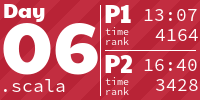
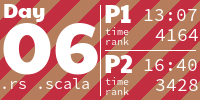
Day 6 2023

diff --git a/src/y2023/day6.rs b/src/y2023/day6.rs
@@ -1,0 +1,97 @@
+use std::io::{self, BufRead};
+
+use nom::{
+    bytes::complete::tag,
+    character::complete::{digit1, newline, space1},
+    multi::separated_list1,
+    sequence::{preceded, separated_pair, tuple},
+    IResult, Parser,
+};
+
+use crate::aoc::day::{DayParser, DaySolution};
+
+pub const TITLE: &str = "Wait For It";
+
+pub struct Solution {
+    time: Vec<String>,
+    distance: Vec<String>,
+}
+
+impl DayParser for Solution {
+    fn with_input(input: &mut dyn BufRead) -> Self {
+        let input = io::read_to_string(input).unwrap();
+        let (_, (time, distance)) = parse(input.as_str()).unwrap();
+
+        Self { time, distance }
+    }
+}
+
+fn parse(input: &str) -> IResult<&str, (Vec<String>, Vec<String>)> {
+    separated_pair(
+        preceded(tuple((tag("Time:"), space1)), numbers),
+        newline,
+        preceded(tuple((tag("Distance:"), space1)), numbers),
+    )(input)
+}
+
+fn numbers(input: &str) -> IResult<&str, Vec<String>> {
+    separated_list1(space1, digit1.map(|num: &str| num.to_string()))(input)
+}
+
+impl DaySolution for Solution {
+    fn part1(&self) -> String {
+        self.time
+            .iter()
+            .zip(self.distance.iter())
+            .map(|(time, distance)| count_wins(time, distance))
+            .product::<u64>()
+            .to_string()
+    }
+
+    fn part2(&self) -> String {
+        let time = self.time.join("");
+        let distance = self.distance.join("");
+        count_wins(&time, &distance).to_string()
+    }
+}
+
+fn count_wins(time: &str, distance: &str) -> u64 {
+    let time = time.parse::<u64>().unwrap();
+    let distance = distance.parse::<u64>().unwrap();
+
+    (1..=time / 2)
+        .filter(|push_time| push_time * (time - push_time) > distance)
+        .count() as u64
+        * 2
+        - ((time - 1) % 2)
+}
+
+#[cfg(test)]
+mod tests {
+    use super::*;
+    use crate::input;
+
+    #[test]
+    fn test_part1_example() {
+        let solution = Solution::with_input(input!(example));
+        assert_eq!(solution.part1(), "288");
+    }
+
+    #[test]
+    fn test_part1_input() {
+        let solution = Solution::with_input(input!(input));
+        assert_eq!(solution.part1(), "1159152");
+    }
+
+    #[test]
+    fn test_part2_example() {
+        let solution = Solution::with_input(input!(example));
+        assert_eq!(solution.part2(), "71503");
+    }
+
+    #[test]
+    fn test_part2_input() {
+        let solution = Solution::with_input(input!(input));
+        assert_eq!(solution.part2(), "41513103");
+    }
+}

diff --git a/benches/solutions.rs b/benches/solutions.rs
@@ -63,5 +63,5 @@ benchmarks!(
     (Benchmark2016 / y2016: day1),
     (Benchmark2021 / y2021: day1),
     (Benchmark2022 / y2022: day1, day3, day4, day6, day10, day13, day16, day17, day23, day24, day25),
-    (Benchmark2023 / y2023: day1, day2, day3, day4),
+    (Benchmark2023 / y2023: day1, day2, day3, day4, day6),
 );

diff --git a/src/lib.rs b/src/lib.rs
@@ -62,5 +62,5 @@ aoc_solutions!(
     y2016: day1;
     y2021: day1;
     y2022: day1, day3, day4, day6, day10, day13, day16, day17, day23, day24, day25;
-    y2023: day1, day2, day3, day4;
+    y2023: day1, day2, day3, day4, day6;
 );

diff --git a/README.md b/README.md
@@ -20,7 +20,7 @@ Rust solutions for [Advent of Code](http://adventofcode.com/). My scala solution
 <a href="https://github.com/SuperTux88/adventofcode/blob/main/src/main/scala/adventofcode/y2023/Day5.scala">
   <img src="AoCTiles/2023/05.png" width="161px">
 </a>
-<a href="https://github.com/SuperTux88/adventofcode/blob/main/src/main/scala/adventofcode/y2023/Day6.scala">
+<a href="src/y2023/day6.rs">
   <img src="AoCTiles/2023/06.png" width="161px">
 </a>
 <a href="https://github.com/SuperTux88/adventofcode/blob/main/src/main/scala/adventofcode/y2023/Day7.scala">
